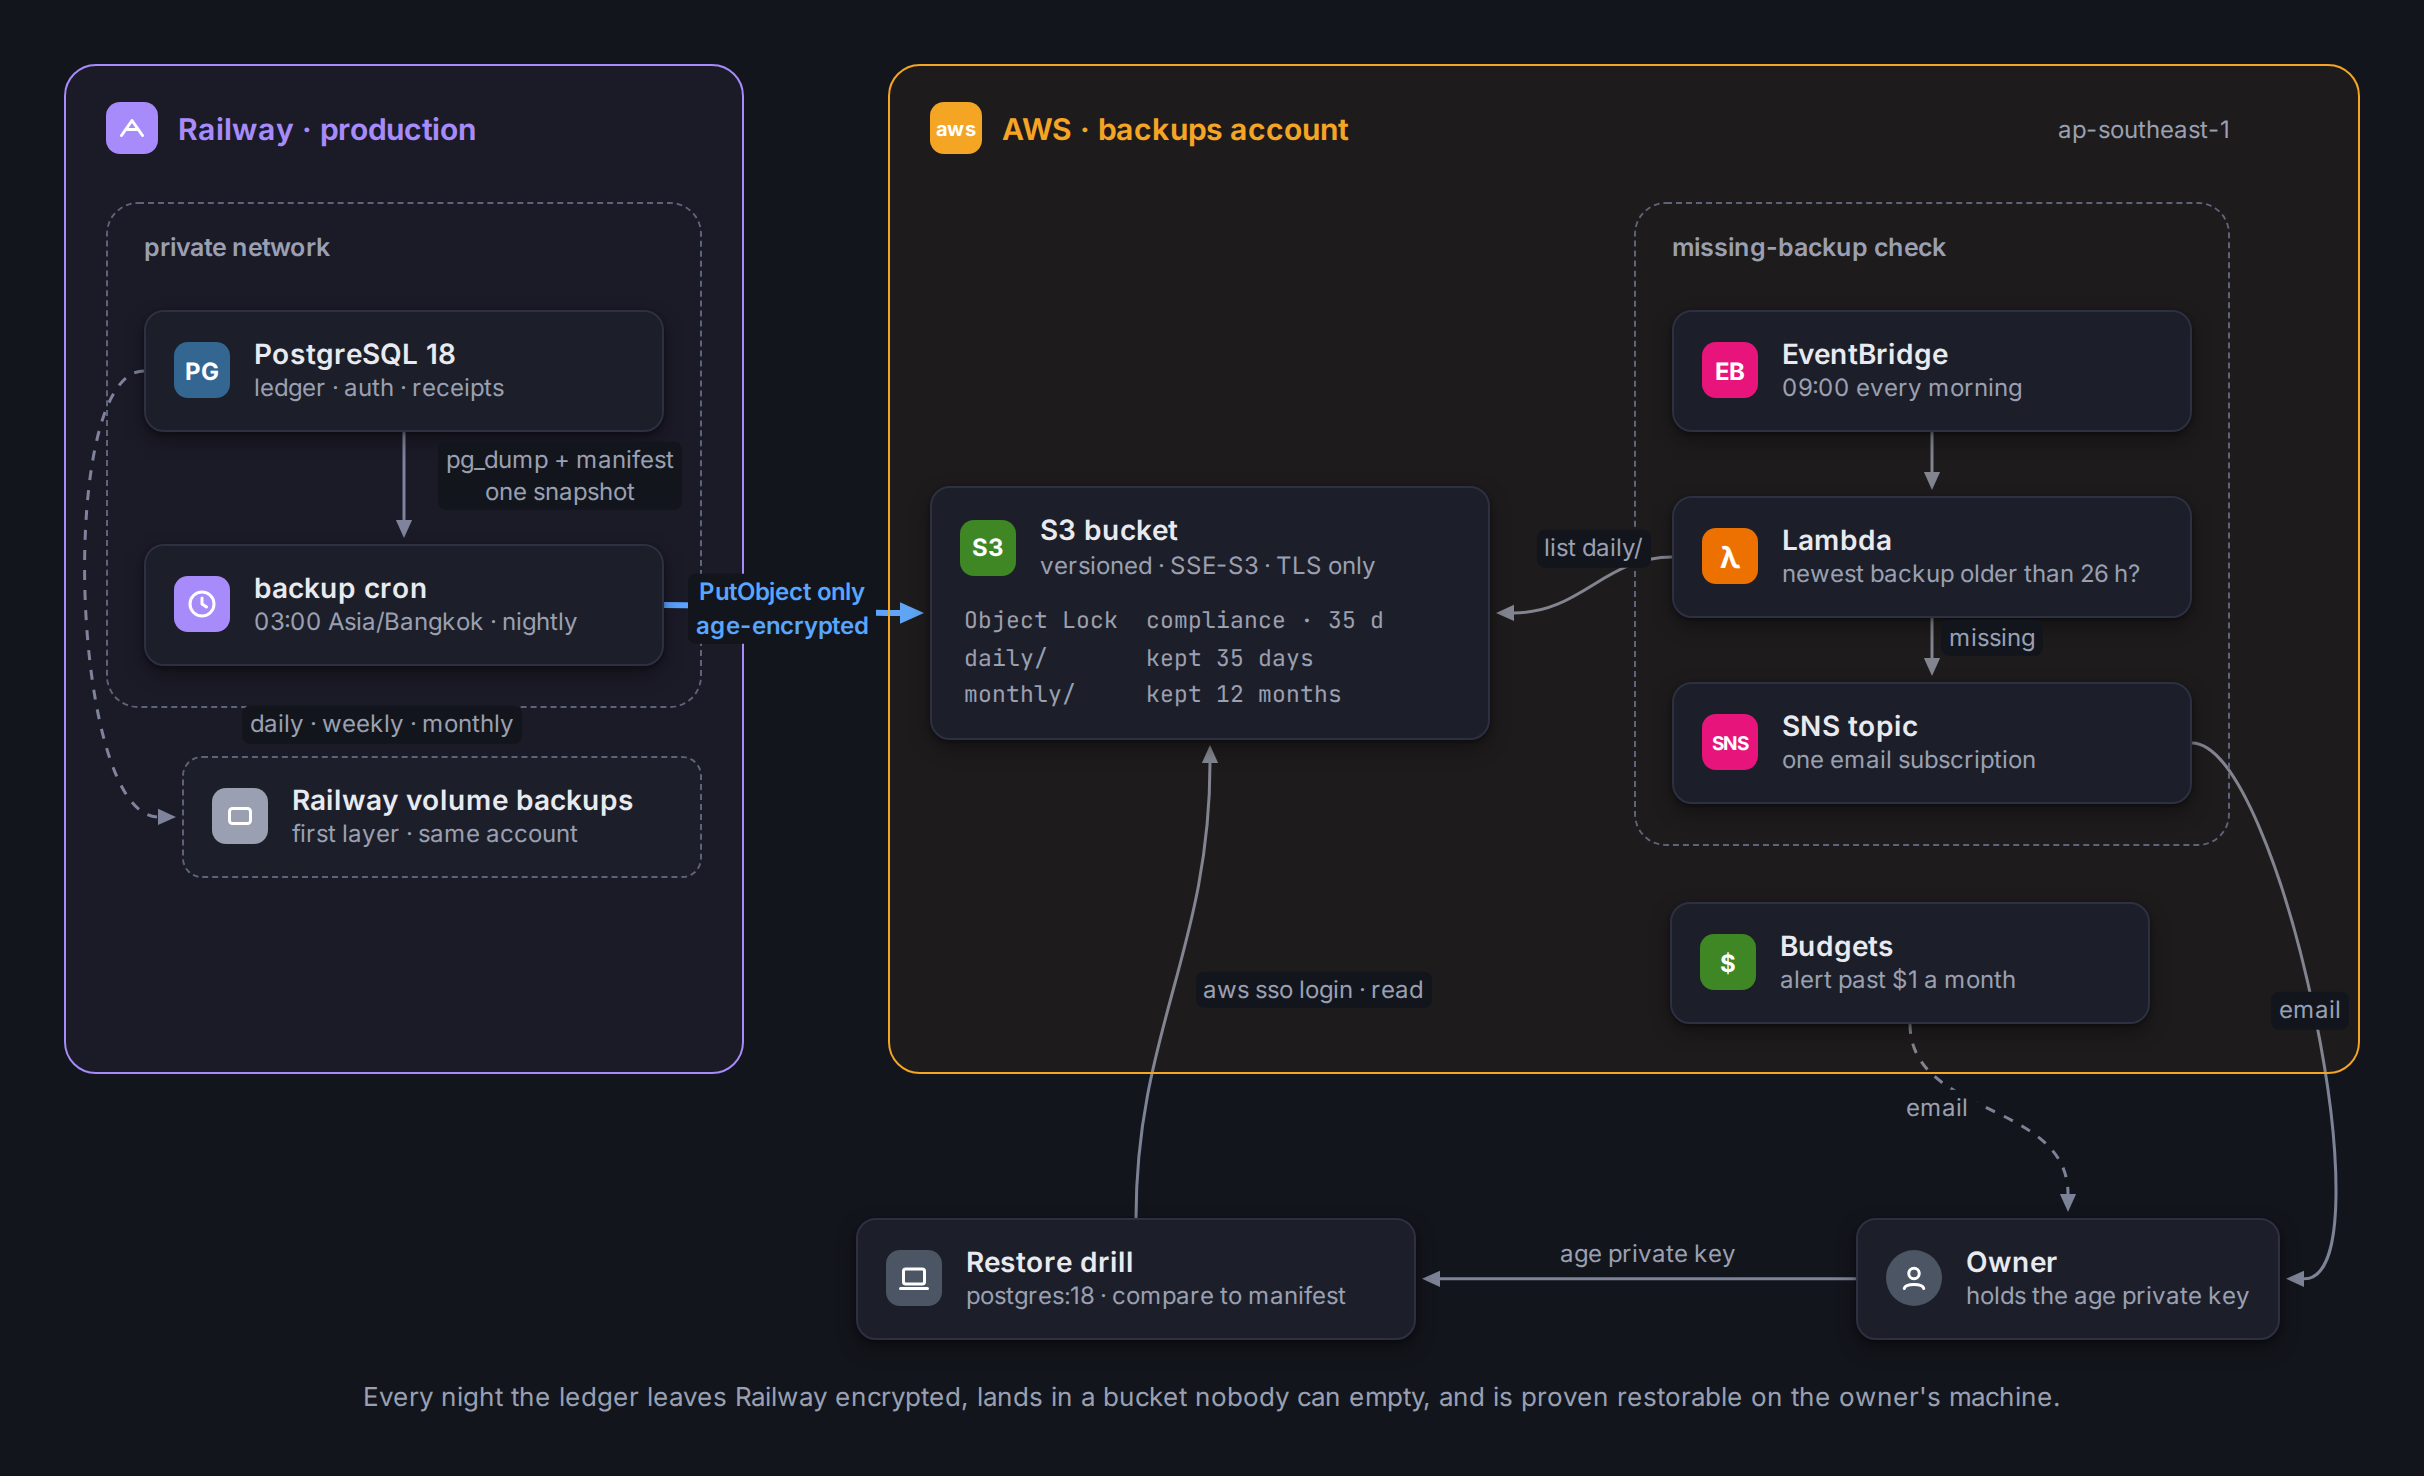
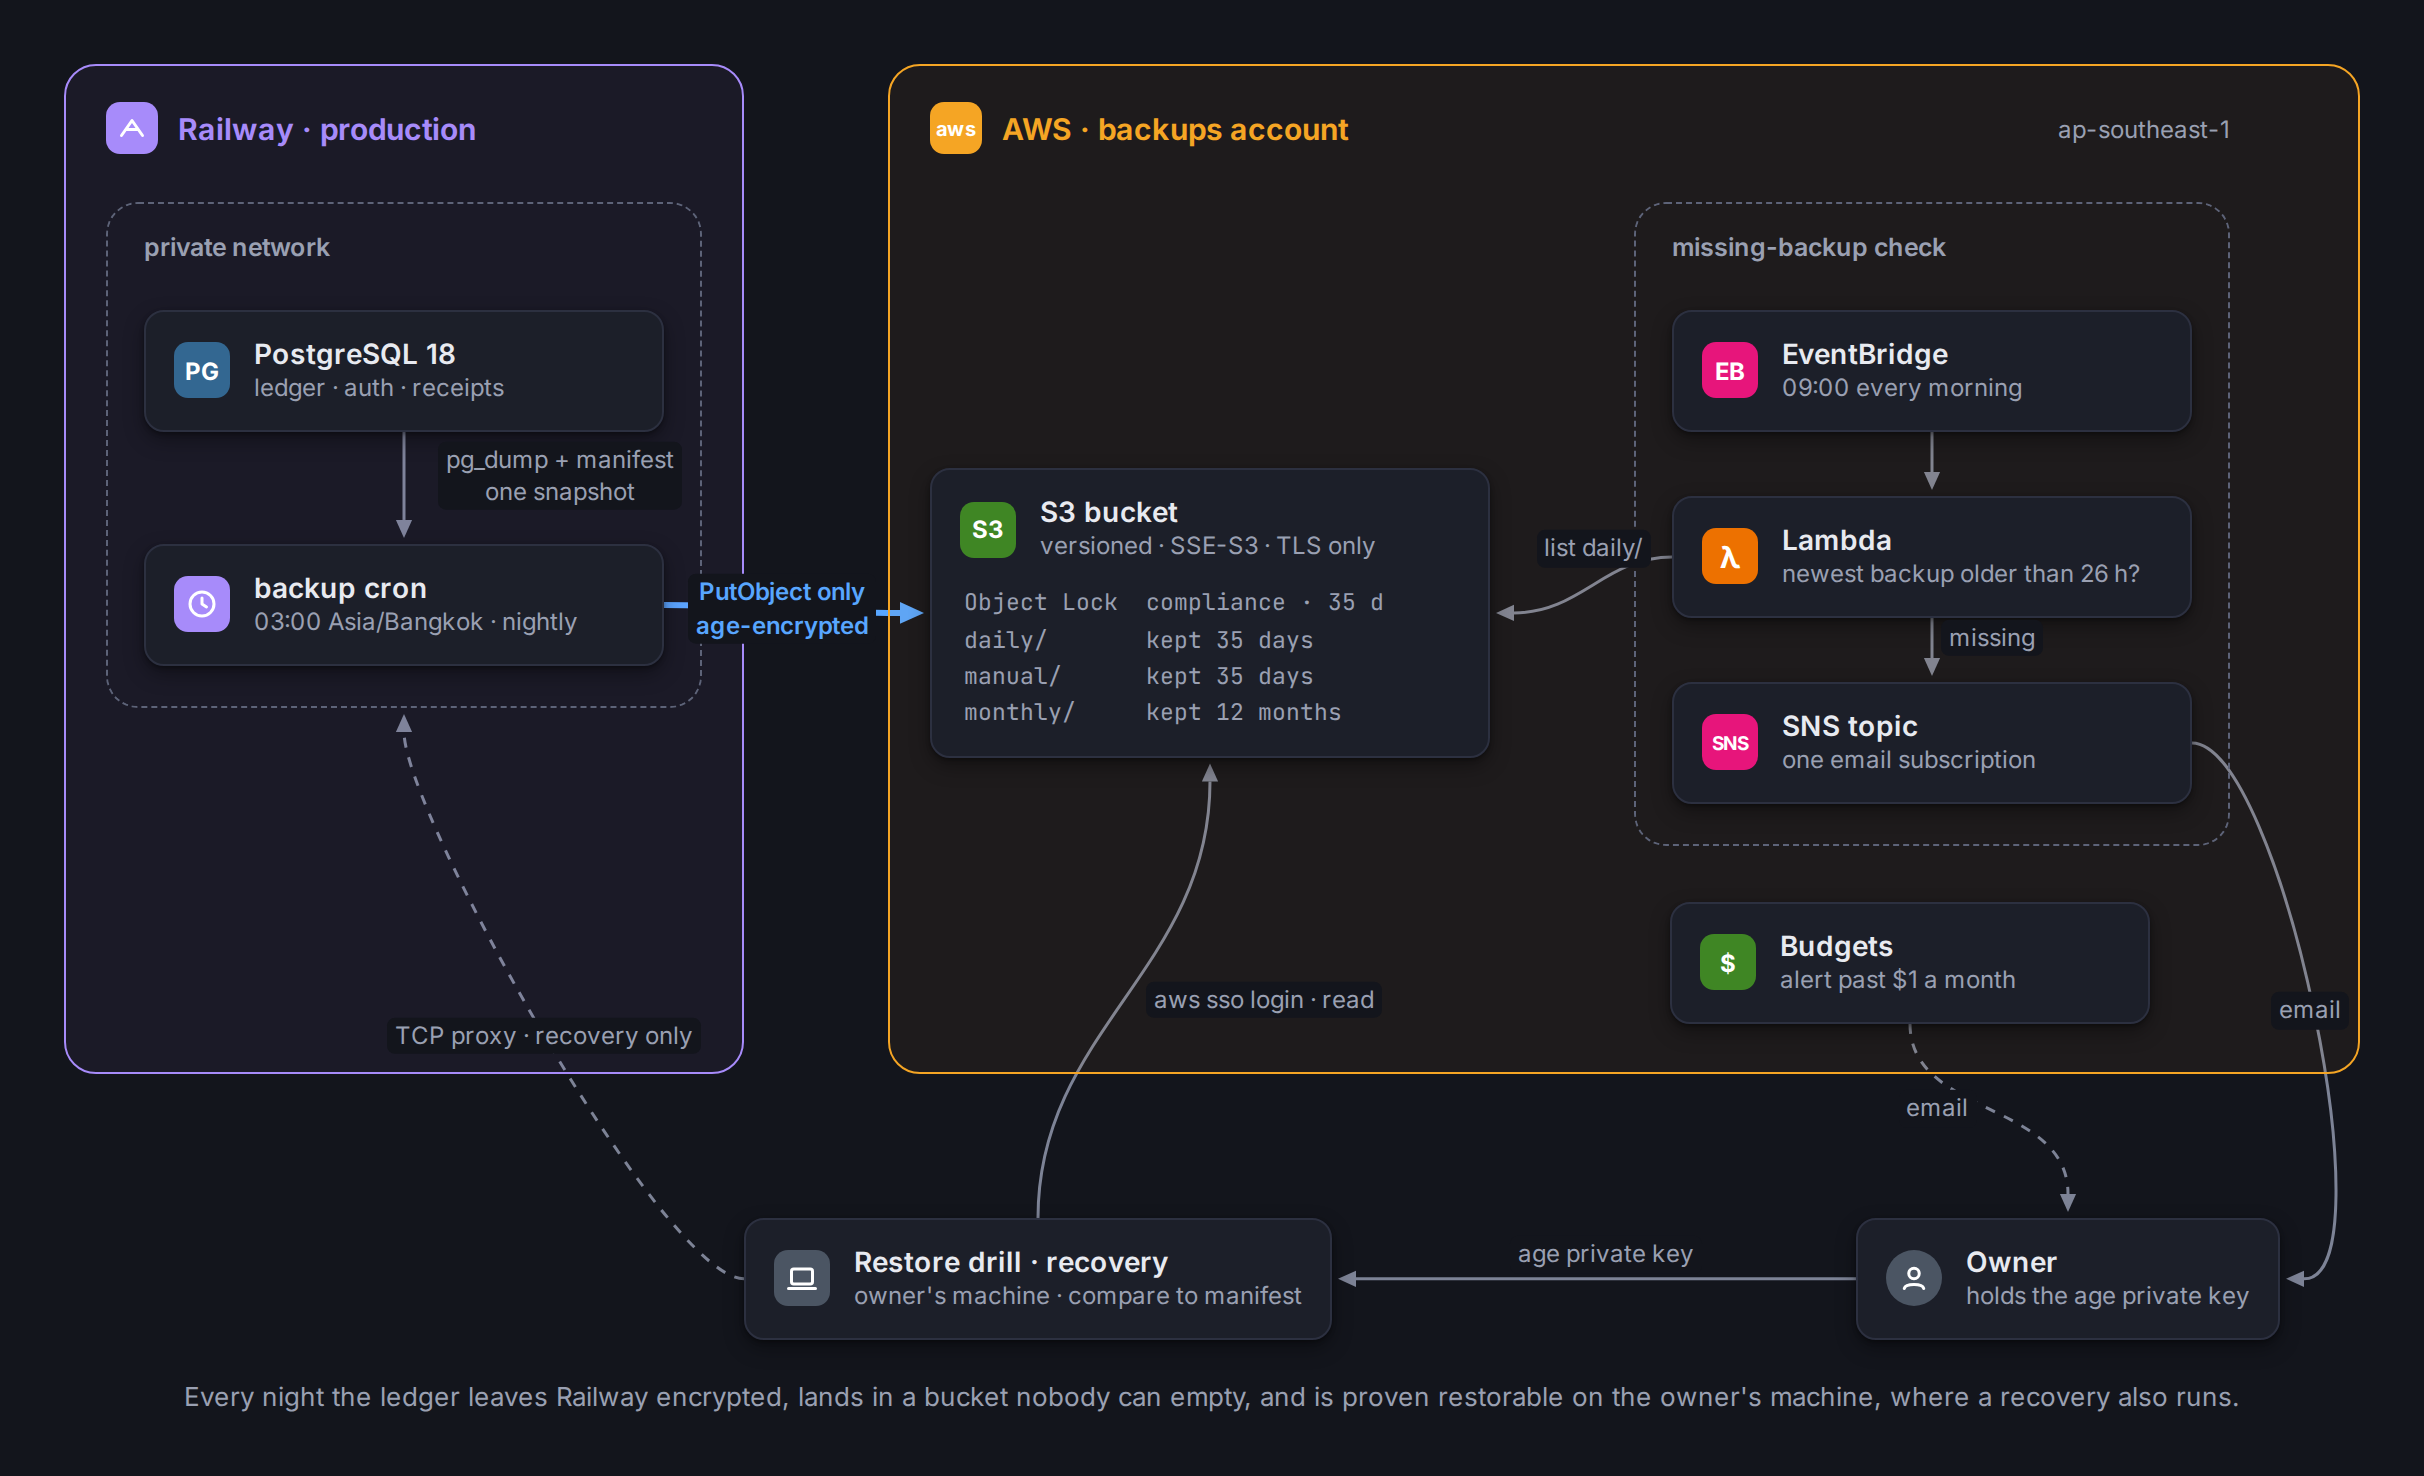
docs: refresh the backup docs and close the storage ticket (#72)
* docs: refresh the backup architecture diagram

* docs: close the backup storage ticket with october's cost

---------

diff --git a/.scratch/production-backups/diagrams/architecture.diagram.html b/.scratch/production-backups/diagrams/architecture.diagram.html
@@ -17,7 +17,7 @@
     <figure
       class="diagram"
       role="img"
-      aria-label="A nightly cron service inside Railway dumps PostgreSQL and uploads an age-encrypted copy, with upload-only access, to an S3 bucket under Object Lock in a dedicated AWS account. An EventBridge schedule runs a Lambda that emails the owner through SNS when a backup is missing. The owner restores backups on their own machine to prove they work."
+      aria-label="A nightly cron service inside Railway dumps PostgreSQL and uploads an age-encrypted copy, with upload-only access, to an S3 bucket under Object Lock in a dedicated AWS account. An EventBridge schedule runs a Lambda that emails the owner through SNS when a backup is missing. On the owner's machine, the restore drill proves backups work, and a recovery restores one into production through a temporary TCP proxy."
     >
       <div class="column" style="--gap: 72px">
         <div class="row" style="--gap: 72px; --align: stretch">
@@ -30,7 +30,7 @@
               </span>
               Railway · production
             </div>
-            <div class="group sub">
+            <div class="group sub" id="private-network">
               <div class="group-label">private network</div>
               <div class="column" style="--gap: 56px">
                 <div class="card" id="postgres">
@@ -54,17 +54,6 @@
                 </div>
               </div>
             </div>
-            <div class="card dashed" id="snapshots" style="margin-left: 38px">
-              <span class="tile">
-                <svg viewBox="0 0 24 24">
-                  <rect x="5" y="7" width="14" height="10" rx="2" />
-                </svg>
-              </span>
-              <div>
-                <div class="title">Railway volume backups</div>
-                <div class="meta">first layer · same account</div>
-              </div>
-            </div>
           </section>
 
           <section class="group" data-tone="orange" style="padding-right: 64px">
@@ -83,6 +72,7 @@
                 <pre class="body">
 Object Lock  compliance · 35 d
 daily/       kept 35 days
+manual/      kept 35 days
 monthly/     kept 12 months</pre>
               </div>
               <div class="column" style="--gap: 28px">
@@ -142,7 +132,11 @@ monthly/     kept 12 months</pre>
 
         <div
           class="row"
-          style="--gap: 220px; justify-content: flex-end; padding-right: 40px"
+          style="
+            --gap: 72px;
+            justify-content: space-between;
+            padding: 0 40px 0 340px;
+          "
         >
           <div class="card" id="drill" style="--card-width: 280px">
             <span class="tile" style="--tile: #4b5563">
@@ -152,8 +146,8 @@ monthly/     kept 12 months</pre>
               </svg>
             </span>
             <div>
-              <div class="title">Restore drill</div>
-              <div class="meta">postgres:18 · compare to manifest</div>
+              <div class="title">Restore drill · recovery</div>
+              <div class="meta">owner's machine · compare to manifest</div>
             </div>
           </div>
           <div class="card" id="owner" style="--card-width: 180px">
@@ -173,23 +167,12 @@ monthly/     kept 12 months</pre>
 
       <figcaption>
         Every night the ledger leaves Railway encrypted, lands in a bucket
-        nobody can empty, and is proven restorable on the owner's machine.
+        nobody can empty, and is proven restorable on the owner's machine, where
+        a recovery also runs.
       </figcaption>
 
       <a-edge from="postgres" to="cron" dx="78"
         >pg_dump + manifest<br />one snapshot</a-edge
-      >
-      <a-edge
-        from="postgres"
-        to="snapshots"
-        from-side="left"
-        to-side="left"
-        variant="dash"
-        reach="44"
-        at="0.92"
-        dx="122"
-        dy="-42"
-        >daily · weekly · monthly</a-edge
       >
       <a-edge from="cron" to="bucket" variant="accent"
         >PutObject only<br />age-encrypted</a-edge
@@ -225,6 +208,15 @@ monthly/     kept 12 months</pre>
       <a-edge from="owner" to="drill" dy="-12">age private key</a-edge>
       <a-edge from="drill" to="bucket" from-side="top" to-side="bottom" dx="70"
         >aws sso login · read</a-edge
+      >
+      <a-edge
+        from="drill"
+        to="private-network"
+        from-side="left"
+        to-side="bottom"
+        variant="dash"
+        reach="40"
+        >TCP proxy · recovery only</a-edge
       >
     </figure>
   </body>

diff --git a/.scratch/production-backups/issues/03-deploy-storage-and-uploader-key.md b/.scratch/production-backups/issues/03-deploy-storage-and-uploader-key.md
@@ -8,7 +8,7 @@ Railway service in 04.
 
 **Blocked by:** 01, 02
 
-**Status:** ready-for-human
+**Status:** done
 
 **Notes:** The owner deploys and creates the key. The secret access key goes
 straight into Railway's variables in 04 and is never written to a file or
@@ -19,7 +19,7 @@ pasted into a conversation.
 - [x] Access key created for `bookkeeping-backup-uploader`; its creation date and the next replacement date (one year later) recorded under Comments.
 - [x] As the uploader: uploading `daily/test/probe.txt` succeeds; listing the bucket, reading that object, and deleting it are refused.
 - [x] As the owner: deleting that object's version is refused because of Object Lock.
-- [ ] October 2026's AWS cost noted under Comments once that bill is issued, about 2026-11-03. The stack went live on 2026-10-18, so October is a partial month of 14 days.
+- [x] October 2026's AWS cost noted under Comments once that bill is issued, about 2026-11-03. The stack went live on 2026-10-18, so October is a partial month of 14 days.
 
 ## Comments
 
@@ -85,3 +85,11 @@ rounds to zero, and the wait would only add a December reminder. On
 2026-10-23 the owner read October's month-to-date cost in the Billing
 console: $0.00. The October bill is final once its status changes from
 **Pending** to **Issued**, about 2026-11-03.
+
+### 2026-11-03: October's cost, ticket closed
+
+Cost Explorer reports October 2026 as final (`Estimated: false`): $0.0009
+in total, $0.00088 of it S3 and $0.000015 Secrets Manager, with every other
+service at $0. That rounds to $0.00, well inside the $1 budget. No October
+invoice was listed by the invoicing API, likely because the total is under
+one cent. Every checkbox is ticked, so the ticket is done.

diff --git a/.scratch/production-backups/diagrams/README.md b/.scratch/production-backups/diagrams/README.md
@@ -4,10 +4,10 @@ Rendered with `pnpm diagrams`, as [the diagram kit guide](../../../docs/developm
 Edit the `.diagram.html` source and render again; open it in a browser to
 preview.
 
-| Source                      | Shows                                                                   |
-| --------------------------- | ----------------------------------------------------------------------- |
-| `architecture.diagram.html` | The nightly job, the S3 bucket and its rules, the alert, and the drill. |
-| `aws-access.diagram.html`   | How the owner reaches both AWS accounts, and where root fits.           |
+| Source                      | Shows                                                                            |
+| --------------------------- | -------------------------------------------------------------------------------- |
+| `architecture.diagram.html` | The nightly job, the S3 bucket and its rules, the alert, the drill and recovery. |
+| `aws-access.diagram.html`   | How the owner reaches both AWS accounts, and where root fits.                    |
 
 ![Production backup architecture](architecture.light.png#gh-light-mode-only)
 ![Production backup architecture](architecture.dark.png#gh-dark-mode-only)
